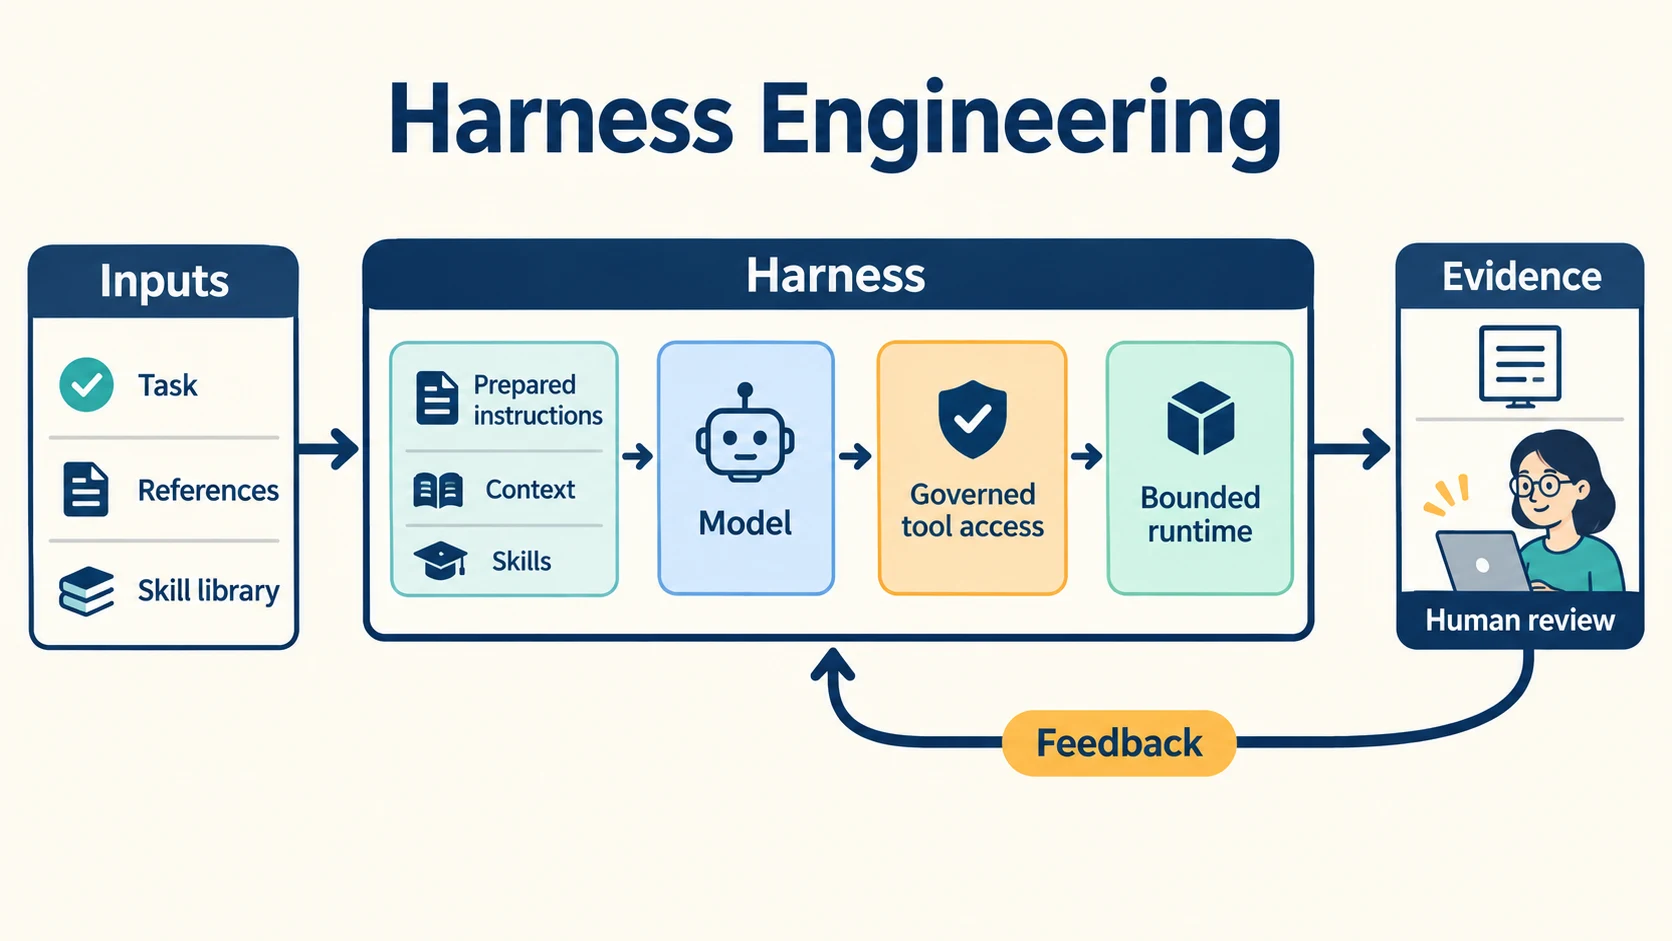
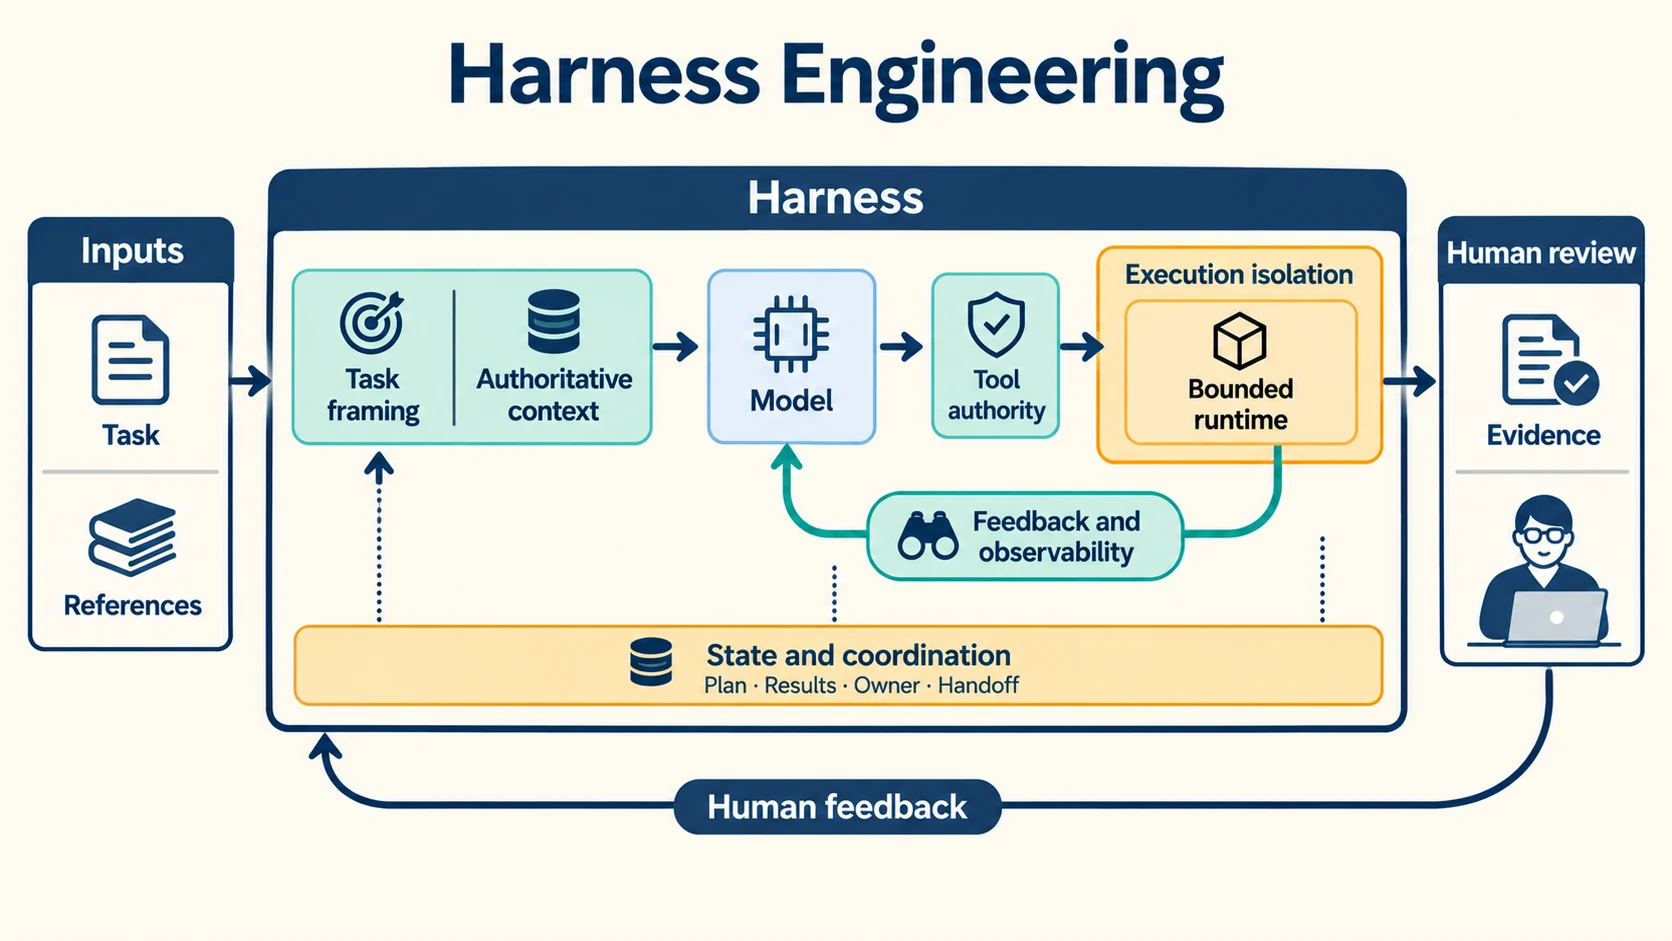
docs: align harness diagrams and prompts

diff --git a/prompts/docs/swe/ai-as-software-engineering-tool/harness-engineering/imagen/cover.md b/prompts/docs/swe/ai-as-software-engineering-tool/harness-engineering/imagen/cover.md
@@ -1,41 +1,47 @@
 ---
 type: image
 path: /docs/swe/ai-as-software-engineering-tool/harness-engineering
-description: Three-column harness-engineering cover showing task inputs entering a central harness, evidence reaching human review, and review feedback returning to the harness.
+description: Harness-engineering cover organized as a clear work path, a runtime evidence loop, and a persistent coordination record.
 ---
 
 # Image Prompt — Harness Engineering
 
 ## Concept
 
-Create a clear editorial cover diagram titled **Harness Engineering**. Explain the harness at a glance as the controlled system between incoming engineering context and human review. The central harness prepares information for a model, governs the model's tool use, and contains execution. Evidence goes to a person; the person's review feeds the next iteration.
+Create a clear editorial cover diagram titled **Harness Engineering**. Show one legible engineering loop and use the six responsibilities as supporting functions within that loop, not as six equal, disconnected boxes. Task framing and authoritative context prepare the work for the model. Tool authority governs which actions the model can request, and execution isolation contains where those actions take effect. Feedback and observability carry runtime results back to guide the model's next action. State and coordination persist the plan, results, ownership, and handoff across the loop. Human review receives evidence and sends review feedback into the next iteration.
 
 ## Layout
 
-Use a **16:9** landscape composition, approximately 1536 × 864 pixels. Organize the canvas into three broad vertical columns, read from left to right:
+Use a **16:9** landscape composition, approximately 1536 × 864 pixels. Make the main work path the dominant visual, read from left to right. Arrange the canvas as a compact input area, one large Harness boundary, and a human review area:
 
-1. **Inputs** — a compact card with three clearly separated rows: **Task**, **References**, **Skill library**.
-2. **Harness** — the widest and visually dominant center column, enclosed by one clear boundary. Inside, show a compact path: **Prepared instructions / context / skills** → **Model** → **Governed tool access** → **Bounded runtime**. Keep the prepared information as one grouped component with three separated rows, not three boxes. Keep tool access and runtime as distinct boxes.
-3. **Human review** — a compact right column containing **Evidence** and a person reviewing it.
+1. **Inputs** — a small card with **Task** and **References**. These are incoming material, not responsibility categories.
+2. **Harness** — the dominant center area with one clear outer boundary. Inside, draw a single top-level execution path: **Task** + **References** → **Task framing** + **Authoritative context** → **Model** → **Tool authority** → **Execution isolation** + **Bounded runtime**. Put Task framing and Authoritative context together in one grouped preparation area before the Model. Put Tool authority as a gate between the Model and runtime. Put Execution isolation as the boundary around the Bounded runtime, not as another step after the runtime.
+3. **Human review** — a small area to the right with **Evidence** and a person reviewing it.
+
+Place **Feedback and observability** as a return path from Bounded runtime results to the Model, visibly separate from the forward execution arrows. Place **State and coordination** as one quiet record strip along the bottom inside the Harness boundary. Beneath its label, show one small, single-line example: **Plan · Results · Owner · Handoff**. Keep the four terms as plain text in the same strip, not as separate boxes, icons, or process steps. Use only three short dotted connectors into that strip: from task framing, runtime results, and human review feedback. This strip represents persistent working state across the loop; it is not another execution stage.
 
 Connect the columns and show one feedback cycle:
 
-- Inputs → Harness: the arrow from the input card terminates at the Harness boundary. Do not aim it at the prepared-information component.
-- Inside Harness: prepared instructions/context/skills → Model → Governed tool access → Bounded runtime.
-- Harness → Evidence → Human review: the output arrow leaves from the Harness boundary, not directly from an interior box.
-- Human review → Harness: one curved return arrow runs beneath the three columns and enters the Harness boundary, showing that review informs the next iteration. Label this return path **Feedback**.
+- Inputs → Task framing + Authoritative context: one clear forward arrow enters the grouped preparation area.
+- Forward work path: preparation → Model → Tool authority → Bounded runtime. Show Execution isolation as a visible enclosure around the runtime; it is a boundary, not a sequential operation.
+- Runtime → Evidence → Human review: show evidence as the observed result of runtime work, then send it to the reviewer.
+- Feedback and observability: one return arrow carries runtime results back to the Model. Keep it visually distinct from the forward path.
+- Human review → Harness: one separate curved return arrow labeled **Human feedback** enters Task framing, showing how review informs the next iteration.
+- State and coordination: the three dotted connectors terminate at the bottom record strip. Do not connect this strip into the execution path or use it as a feedback arrow.
 
-Use distinct, well-spaced boundary connection points for incoming context, outgoing evidence, and returning feedback. Keep every connector clear of the title, boxes, and other arrows. The feedback arc should be visually easy to follow without enclosing or crossing the main diagram.
+Use distinct, well-spaced connection points. Make arrow direction and the difference between forward work, runtime feedback, human review feedback, and state recording immediately clear. Keep connectors short and direct; do not cross arrows or route them through unrelated components. Leave generous whitespace around the main path.
 
 ## Visual cues
 
 - Exact visible title: **Harness Engineering**. Use no subtitle.
-- Use only these labels: **Inputs**, **Task**, **References**, **Skill library**, **Harness**, **Prepared instructions**, **Context**, **Skills**, **Model**, **Governed tool access**, **Bounded runtime**, **Evidence**, **Human review**, **Feedback**.
-- In the input card, place Task, References, and Skill library on separate rows with thin horizontal dividers. In the prepared-information component, place Prepared instructions, Context, and Skills on separate rows with the same divider treatment. Use one shared outer card for each group; do not enclose rows separately.
-- Show Skills as reusable instructions and resources that guide the Model. Do not depict them as executable tools or as permission grants.
-- Use a visible outer frame to identify the Harness as the center system. The frame should make the three boundary connections legible: input enters, evidence exits, and human feedback returns.
-- Keep **Governed tool access** distinct from **Bounded runtime**: the first controls which operations the model may request; the second defines where their effects occur.
-- Make Human review the output point and the source of the return feedback loop.
+- Use only these labels: **Inputs**, **Task**, **References**, **Harness**, **Task framing**, **Authoritative context**, **Tool authority**, **Execution isolation**, **Feedback and observability**, **State and coordination**, **Plan**, **Results**, **Owner**, **Handoff**, **Model**, **Bounded runtime**, **Evidence**, **Human review**, **Human feedback**.
+- In the input card, place Task and References on separate rows with thin horizontal dividers. Do not show the input list as a substitute for harness responsibilities.
+- Keep the six responsibilities in three functional groups: preparation (**Task framing**, **Authoritative context**), action control (**Tool authority**, **Execution isolation**), and learning and continuity (**Feedback and observability**, **State and coordination**). Group by function and position; do not make six same-sized peer cards.
+- Use shape and connectors to distinguish the four relationships: forward execution, runtime feedback to the Model, human feedback to Task framing, and dotted recording links to State and coordination.
+- Draw Execution isolation as a boundary around Bounded runtime. Tool authority is a gate before that boundary. Do not imply either one performs the other's role.
+- Keep State and coordination as a persistent record strip spanning the work, not as a box in the process sequence.
+- Show the four compact examples **Plan · Results · Owner · Handoff** on one line inside the record strip. Keep them visually secondary to the main work path.
+- Make Human review the destination for Evidence. Keep the human feedback loop separate from the runtime feedback loop.
 
 ## Style
 
@@ -43,12 +49,14 @@ Use a restrained editorial infographic style for a professional engineering docu
 
 ## Restrictions
 
-- Do not add boxes or labels beyond the list above.
-- Do not create a process waterfall: the three columns are input, controlled system, and review, with one feedback return.
-- Do not connect the input arrow directly to Prepared instructions, Context, or Skills; it connects to the Harness boundary.
-- Do not route evidence directly from an interior component to Human review; the output leaves from the Harness boundary.
-- Do not omit or redirect the Human review → Feedback → Harness return cycle.
-- Do not merge Governed tool access with Bounded runtime.
+- Do not add labels beyond the list above.
+- Do not depict six equal boxes, a row of unrelated responsibilities, or one image block for each article section.
+- Do not draw Execution isolation as a step after Bounded runtime; it encloses the runtime.
+- Do not mix the runtime feedback-to-Model loop with the human feedback-to-Task framing loop.
+- Do not route State and coordination through the execution path or use it as an arrow destination for feedback.
+- Do not turn Plan, Results, Owner, or Handoff into separate cards, stages, or connectors.
+- Do not use crossing connectors, ambiguous arrowheads, decorative arrows, or unlabeled cycles.
+- Do not merge Tool authority with Execution isolation, or omit any of the six responsibilities.
 - Do not depict unrestricted filesystem, network, credential, or production access.
 - No vendor names, logos, metrics, fake code, watermark, decorative circuitry, or extra workflow stages.
 - Preserve the 16:9 ratio and maintain generous whitespace.

diff --git a/content/docs/swe/ai-as-software-engineering-tool/harness-engineering/_index.ja.md b/content/docs/swe/ai-as-software-engineering-tool/harness-engineering/_index.ja.md
@@ -8,9 +8,9 @@ next: "/docs/swe/ai-as-software-engineering-tool/evaluation-and-security"
 
 ハーネスエンジニアリングは、モデルの周囲にエージェントの作業を制約し、観測し、検証できるシステムを設計することです。ハーネスとは、タスクの範囲を定め、モデルに渡す情報や再利用可能な手順を選び、制御されたツールを公開し、ツールが動く場所を制限し、状態と結果を記録し、重要な判断に人のレビューを置くソフトウェアと設定の集合です。
 
-モデルは推論して行動を提案し、ハーネスはモデルとタスクおよび外部世界との接点を仲介します。ハーネスは単なるプロンプトでも、ツールの集まりでも、実行環境のサンドボックスだけでもありません。図は入力から実行、人のレビューまでの関係をまとめています。
+モデルは推論して行動を提案し、ハーネスはモデルとタスクおよび外部世界との接点を仲介します。ハーネスは単なるプロンプトでも、ツールの集まりでも、実行環境のサンドボックスだけでもありません。図では主な実行経路を示し、実行結果からモデルへのフィードバックと、人のレビューから次のタスクへのフィードバックを分けています。また、状態と連携が反復を通じて作業の文脈を保つことも示しています。
 
-![タスク、参照資料、スキルライブラリが中央のハーネスに入力され、準備された指示・コンテキスト・スキルがモデルを導き、制御されたツールアクセスと制約された実行環境を経て証拠が人のレビューに届き、そのフィードバックがハーネスへ戻る三列構成の図](harness-engineering-feedback-loop.ja.webp "ハーネスエンジニアリングの流れ")
+![タスク設定と信頼できる文脈がモデルの作業を準備し、ツール権限が操作を制御し、実行の隔離が実行環境を囲む図。実行結果はモデルへのフィードバックとなり、証拠は人のレビューに届き、人のフィードバックはタスク設定へ戻り、状態は循環全体を通じて記録される](harness-engineering-feedback-loop.ja.webp "ハーネスエンジニアリング")
 
 タスク依頼、参照資料、再利用可能なスキルライブラリがハーネスへの入力になります。ハーネスは関連する指示とコンテキストを整え、選択したスキルをモデルに渡します。モデルは制御されたツールを通じて操作を提案し、実行環境がその影響範囲を制限します。実行結果は証拠として人のレビューに示され、そのレビューが次の反復に活用されます。スキルは再利用可能な指示とリソースを提供しますが、それ自体が操作を実行したり権限を与えたりするものではありません。
 

diff --git a/content/docs/swe/ai-as-software-engineering-tool/harness-engineering/_index.md b/content/docs/swe/ai-as-software-engineering-tool/harness-engineering/_index.md
@@ -8,9 +8,9 @@ next: "/docs/swe/ai-as-software-engineering-tool/evaluation-and-security"
 
 Harness engineering designs the system around a model so that an agent can perform bounded, observable, and verifiable work. A harness is the software and configuration that frames a task, selects and assembles the information and reusable procedures given to the model, exposes controlled tools, constrains where those tools run, records state and results, and places human review at consequential decision points.
 
-The model reasons and proposes actions; the harness mediates the model's contact with the task and the outside world. It is not just a prompt, a collection of tools, or the runtime sandbox by itself. The diagram summarizes this relationship from inputs through execution to human review.
+The model reasons and proposes actions; the harness mediates the model's contact with the task and the outside world. It is not just a prompt, a collection of tools, or the runtime sandbox by itself. The diagram shows the main execution path, separates runtime feedback from human review feedback, and shows how state and coordination preserve working context across iterations.
 
-![Three-column harness diagram: task, references, and skill library enter a central harness; prepared instructions, context, and skills guide a model through governed tool access and a bounded runtime; evidence goes to human review, whose feedback returns to the harness](harness-engineering-feedback-loop.webp "Harness Engineering")
+![Harness diagram with task framing and authoritative context preparing work for a model, tool authority governing actions, execution isolation enclosing the runtime, runtime feedback returning to the model, evidence reaching human review, human feedback returning to task framing, and state recorded across the loop](harness-engineering-feedback-loop.webp "Harness Engineering")
 
 Task requests, references, and a reusable skill library provide inputs to the harness. The harness prepares relevant instructions and context and supplies selected skills to guide the model. The model proposes actions through governed tools, while the bounded runtime contains their effects. Execution results are presented as evidence for human review; that review feeds the next iteration. Skills provide reusable instructions and resources, but do not execute operations or grant permission.
 

diff --git a/content/docs/swe/ai-as-software-engineering-tool/coding-agents/_index.md b/content/docs/swe/ai-as-software-engineering-tool/coding-agents/_index.md
@@ -14,21 +14,7 @@ The model and the agent have different roles. A model interprets context and pro
 
 ## A coding-agent architecture
 
-The architecture has several dimensions that should be considered separately. An interaction surface is how a person reaches the agent. Model access describes how the agent obtains reasoning capability. Tools are classified by the work they do, while execution location describes where they run and what they can reach. These choices meet in an engineering workflow, but they are not one fixed stack.
-
-```mermaid
-flowchart LR
-    P[Developer / reviewer] <--> S[Interaction surface<br/>Terminal · desktop · editor / plugin]
-    S <--> A[Coding agent<br/>Task orchestration and state]
-    A <--> M[Model interaction<br/>Model family · endpoint · access pattern]
-    A <--> R[Local or remote runtime<br/>Repository checkout · filesystem · Git · shell]
-    R <--> E[External systems over governed network paths<br/>Issue tracker · knowledge base · hosted repository · CI]
-    R --> V[Checks and evidence]
-    E --> V
-    V --> P
-```
-
-The diagram shows common relationships, not mandatory integrations. A particular agent may use only some surfaces, models, tools, or systems, and it may run in a local or remote environment. Capabilities and connections depend on the product and its configuration.
+The cover diagram shows common architectural relationships, not mandatory integrations. An interaction surface is how a person reaches the agent; model access is how the agent obtains reasoning capability; tools are classified by the work they do; and execution location describes where they run and what they can reach. These are separate design dimensions, not one fixed stack. A particular agent may use only some surfaces, models, tools, or systems, and capabilities depend on its product and configuration.
 
 ## Interaction surfaces
 
